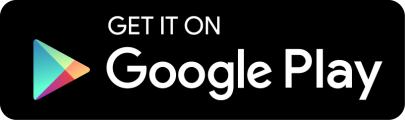
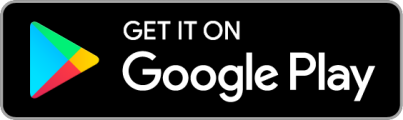
Update Play badge.

Changed region(s): [[0.0596, 0.175, 0.9529, 0.875], [0.0, 0.0, 1.0, 1.0], [0.268, 0.125, 0.5955, 0.35]]

diff --git a/whypay.html b/whypay.html
@@ -23,7 +23,7 @@ title: Unlock features - Why pay?
     </ol>
     <ul class="list-inline">
       <li><p>
-            <a href="https://play.google.com/store/apps/details?id=com.battlelancer.seriesguide"><img alt="Get it on Google Play&trade;" src="images/google-play-link.png" width="185" height="60" /></a>
+            <a href="https://play.google.com/store/apps/details?id=com.battlelancer.seriesguide"><img alt="Get it on Google Play&trade;" src="images/google-play-link.png" width="200" height="60" /></a>
             <a href="/amazon"><img alt="Available at Amazon" src="images/amazon-apps-link.png" width="175" height="60" /></a>
           </p>
       </li>

diff --git a/index.html b/index.html
@@ -13,7 +13,7 @@ title: SeriesGuide for Android&trade;
     <div class="spacer"></div>
 
     <div id="download-buttons">
-      <a href="https://play.google.com/store/apps/details?id=com.battlelancer.seriesguide"><img alt="Get it on Google Play&trade;" src="images/google-play-link.png" width="185" height="60" /></a>
+      <a href="https://play.google.com/store/apps/details?id=com.battlelancer.seriesguide"><img alt="Get it on Google Play&trade;" src="images/google-play-link.png" width="200" height="60" /></a>
       <a href="/amazon">
         <img alt="Available at Amazon" src="images/amazon-apps-link.png" width="175" height="60" />
       </a>
